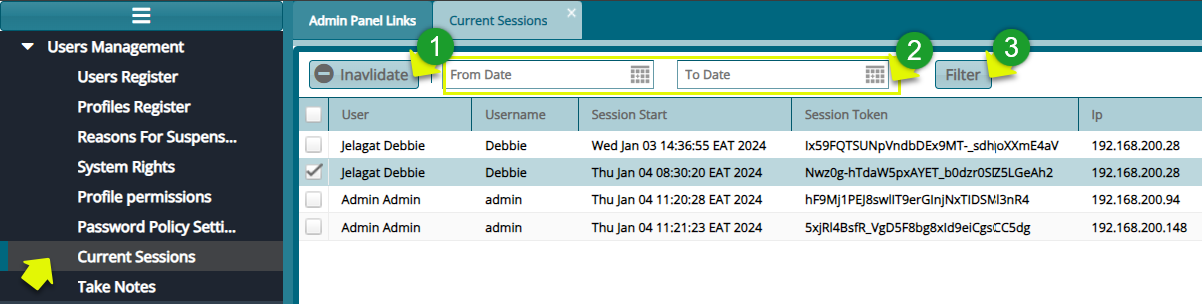
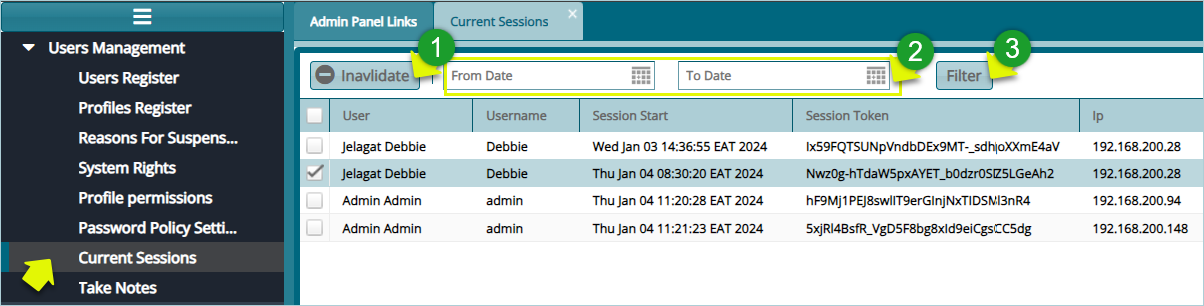
scheme register edits

diff --git a/docs/src/setupscheme/setupProcess.md b/docs/src/setupscheme/setupProcess.md
@@ -2,7 +2,7 @@
 
 Access to all scheme configurations is provided for by clicking the **'Scheme'** menu on the left side pane. This will open a dropdown menu which is organized into submenu categories, providing a convenient order of configurations. See screenshot below:
 
-<img  alt="scheme setup dashboard" width="55%" height="auto"  class="center"  src="../.vuepress/public/schemesetup/image4.png">  
+<img  alt="scheme setup dashboard" width="50%" height="auto"  class="center"  src="../.vuepress/public/schemesetup/image4.jpg">  
 
 
 **Action**
@@ -14,7 +14,7 @@ Access to all scheme configurations is provided for by clicking the **'Scheme'**
 
 The **'Schemes Register'** lists all the schemes created in the system. From the scheme window, several actions can be taken on selected schemes such as cloning of a scheme's configuration, certification, and migration of a scheme among others. From this window a new scheme can also be created. The screenshot below shows how the scheme register looks like:
 
-<img  alt="scheme setup dashboard" width="97%" height="auto"  class="center"  src="../.vuepress/public/schemesetup/image5.png">  
+<img  alt="scheme setup dashboard" width="99%" height="auto"  class="center"  src="../.vuepress/public/schemesetup/image5.jpg">  
 
 
 **Action**
@@ -27,20 +27,28 @@ The **'Schemes Register'** lists all the schemes created in the system. From the
 
 -   Click on the label 4 text field and enter keywords to filter records by name.
 
--   Click on the label 5 menu to open a drop-down to select approved or not approved records.
+-   Click on the label 5 menu to open a drop-down to filter by approved or not approved records status.
 
 -   Click on the label 6 menu to open a drop-down list of registers.
 
--   Click on the label 7 menu to open a drop-down for cloning scheme configurations.
+-   Click on the label 7 button to open a drop-dowm to access links to download scheme related reports. 
 
--   Click on the label 8 button to load a section with more details of a selected scheme from the register.
+-   Click on the label 8 button to show or hide the more detailed section of a selected schemerecord. 
+
+-   Click on the label 9 tab to upload scheme related documents.
+
+-   Click on the label 10 tab to view categories of scheme memberships. 
+
+-   Click on the label 11 tab to view vesting scales deatils.
 
 
-## Operations
 
-The '**Operations**' menu provides links to open windows for various actions related to schemes. These actions include tasks like capturing a scheme's bank details and initiating the scheme migration process. See the screenshot below:
 
-<img  alt="operations menu" width="80%" height="auto"  class="center"  src="../.vuepress/public/schemesetup/image6.png">  
+### Scheme Bank Details
+
+The **Operations** menu provides a link to open a windows for capturing a scheme's bank details. See the screenshot below:
+
+<img  alt="operations menu" width="97%" height="auto"  class="center"  src="../.vuepress/public/schemesetup/image6.jpg">  
 
 
 ### New Scheme
@@ -60,7 +68,7 @@ To create a new scheme, click the **'New Scheme'** button to launch the Scheme D
 The '**Certification**' menu provides access to the buttons through which a newly created scheme is certified and approved before further configurations can be done. See screenshot below:
 
 
-<img  alt="scheme certification" width="97%" height="auto"  class="center"  src="../.vuepress/public/schemesetup/image8.png">  
+<img  alt="scheme certification" width="97%" height="auto"  class="center"  src="../.vuepress/public/schemesetup/image8.jpg">  
 
 
 **Action**
@@ -75,9 +83,9 @@ The **'Open Register'** menu offers links to open windows displaying various bas
 <img  alt="open registers" width="80%" height="auto"  class="center"  src="../.vuepress/public/schemesetup/image9.png">  
 
 
-## Employer Management
+#### Employer Management
 
-### Employer Enrollment
+#### Employer Enrollment
 
 To enroll a new employer into a scheme, locate the **'Open Registers'** drop-down menu, as shown in the previous screenshot, and click the **'Employers'** menu item. This will open the employers window where their details are displayed as shown below:
 
@@ -100,7 +108,7 @@ To enroll a new employer into a scheme, locate the **'Open Registers'** drop-dow
 
 
 
-## Onboarding a Single Employer 
+#### Onboarding a Single Employer 
 
 Click the **'New Employer'** link to open a form where the details of a new employer are captured into the system as shown below:
 
@@ -112,7 +120,7 @@ Clicking the **'Save'** button on the employer details form upon completion of c
 <img  alt="schedule employer meeting" width="85%" height="auto"  class="center"  src="../.vuepress/public/schemesetup/image12.png">  
 
 
-## Onboarding Employers in Batch 
+#### Onboarding Employers in Batch 
 
 Employers can also be onboarded into the system in batch form using a template. To initiate this process, click on the **'Import from Template'** menu item as shown below:
 

diff --git a/docs/src/administration/userManagement.md b/docs/src/administration/userManagement.md
@@ -64,11 +64,11 @@ Clicking the '**New User**' will open '**User Details**' form where the details 
 
 To access adsditional details about a user\'s account, including user role, schemes, sponsors, modules, and member classes allowed for access, click '**Details**' from the Operations menu as shown below:
 
-<img  alt="user details" width="20%" height="auto"  class="center"  src="../.vuepress/public/adminmedia/image8.png">  
+<img  alt="user details" width="85%" height="auto"  class="center"  src="../.vuepress/public/adminmedia/image8.png">  
 
 This action will open a lower section displaying comprehensive information about the selected user, as depicted below:
 
-<img  alt="user extra details" width="97%" height="auto"  class="center"  src="../.vuepress/public/adminmedia/image9.png">  
+<img  alt="user extra details" width="99%" height="auto"  class="center"  src="../.vuepress/public/adminmedia/image9.png">  
 
 
 **Action**
@@ -215,7 +215,7 @@ Once a system user profile is created, the next step is to allow access to speci
 
 To assign permissions to a profile, click the **'Profile Permissions'** menu to open the profiles permission window with a grid table where permissions are assigned to profiles. The table provides drop-down menus to choose profiles and the modules whose permissions are to be assigned to a profile among others as shown below:
 
-<img  alt="Profile Permissions" width="95%" height="auto"  class="center"  src="../.vuepress/public/adminmedia/image20.png">  
+<img  alt="Profile Permissions" width="98%" height="auto"  class="center"  src="../.vuepress/public/adminmedia/image20a.jpg">  
 
 
 **Action**
@@ -232,7 +232,7 @@ To assign permissions to a profile, click the **'Profile Permissions'** menu to 
 
 Select **'Permission'** from the list and click the **'Enable'** button to activate the permissions in that profile as shown below:
 
-<img  alt="enable Permissions" width="95%" height="auto"  class="center"  src="../.vuepress/public/adminmedia/image21.png">  
+<img  alt="enable Permissions" width="98%" height="auto"  class="center"  src="../.vuepress/public/adminmedia/image21.png">  
 
 
 **Action**
@@ -261,7 +261,7 @@ Click the **'New Permission'** button to open a dialog box. Through this, a new 
 
 Click **'Password Policy Settings'** to open a dialog box. Adjust the password policy settings based on the configuration provided below:
 
-<img  alt="Password Policy Settings" width="95%" height="auto"  class="center"  src="../.vuepress/public/adminmedia/image22.png">  
+<img  alt="Password Policy Settings" width="97%" height="auto"  class="center"  src="../.vuepress/public/adminmedia/image22.png">  
 
 
 **Action**
@@ -274,7 +274,7 @@ Click **'Password Policy Settings'** to open a dialog box. Adjust the password p
 
 Click on **'Current Sessions'** to open the respective window. Inside this window, you will find a list displaying all currently logged-in users, as illustrated in the screenshot below:
 
-<img  alt="Current Sessions" width="95%" height="auto"  class="center"  src="../.vuepress/public/adminmedia/image23.png">  
+<img  alt="Current Sessions" width="100%" height="auto"  class="center"  src="../.vuepress/public/adminmedia/image23.png">  
 
 
 **Action**
@@ -291,7 +291,7 @@ Click on **'Current Sessions'** to open the respective window. Inside this windo
 
 Click on **'Take Notes'** to open the Notes window. Inside this window, you will find a list displaying all current notes written by various system users as shown in the screenshot below:
 
-<img  alt="Take Notes" width="95%" height="auto"  class="center"  src="../.vuepress/public/adminmedia/image24.png">  
+<img  alt="Take Notes" width="100%" height="auto"  class="center"  src="../.vuepress/public/adminmedia/image24.png">  
 
 
 **Action**
@@ -318,7 +318,7 @@ Click the **'New'** button to open a dialog box. Within this window, enter the d
 
 Click **'Audit Trail**' to open the corresponding window. In this window, a list of all key activities within the system, attributed to active users, is generated, as shown in the screenshot below:
 
-<img  alt="audio trail" width="95%" height="auto"  class="center"  src="../.vuepress/public/adminmedia/image26.png">  
+<img  alt="audio trail" width="99%" height="auto"  class="center"  src="../.vuepress/public/adminmedia/image26.png">  
 
 
 **Action**
@@ -329,7 +329,7 @@ Click **'Audit Trail**' to open the corresponding window. In this window, a list
 
 -   Click on the **label 3** date fields and choose dates to filter records based on the selected time range.
 
--   Click on **the label 4** text field and enter keywords to filter logs in the list based on specific criteria.
+-   Click on the **label 4** text field and enter keywords to filter logs in the list based on specific criteria.
 
 -   Click on the **label 5** button to filter records according to the set parameters.
 

diff --git a/docs/src/administration/notifications.md b/docs/src/administration/notifications.md
@@ -156,9 +156,28 @@ Click the **'Outbox'** link to open the outbox window where all outgoing email t
 
 ## Periodic Emails
 
-<img  alt="periodic email" width="95%" height="auto"  class="center"  src="../.vuepress/public/adminmedia/image38.png">  
+Configuring **Periodic Emails** involves setting up the system to send automated emails at scheduled intervals. This is commonly used for reminders, newsletters, reports, or updates etc. See screenshot below to see an example of a configuration. 
+
+<img  alt="periodic email" width="95%" height="auto"  class="center"  src="../.vuepress/public/adminmedia/image38.jpg"> 
+
+**Action**
+
+-   Click **label 1** button to load a new dialog box through which a new periodic email is configurable.
+
+-   Click **label 2** button to remove a selected email record from the list.
+-   Click **label 3** button to Certify a newly created periodic email from the list.
+-   Click **label 4** button to Approve a newly created periodic email from the list.
+
+
+Below is a screenshot of the dialog box through which a new periodic table is configured:
+
+<img  alt="periodic email" width="95%" height="auto"  class="center"  src="../.vuepress/public/adminmedia/image38a.jpg"> 
+
+
 
 
 ## S.M.S Outbox
 
-<img  alt="sms outbox" width="95%" height="auto"  class="center"  src="../.vuepress/public/adminmedia/image39.png">  
+The **SMS Outbox** feature allows users to manage and track outgoing SMS messages that have been sent or are queued for delivery. It provides a way to view the status, history, and details of messages sent from the FundMaster, which can be crucial for managing communications, especially in automated notification systems. See screenshot below:
+
+<img  alt="sms outbox" width="98%" height="auto"  class="center"  src="../.vuepress/public/adminmedia/image39.jpg">  

diff --git a/docs/src/administration/systemUtility.md b/docs/src/administration/systemUtility.md
@@ -40,7 +40,7 @@ Click the '**Report Server'** menu item to open a Report Server Config dialog bo
 
 Click the '**Reports Configurations'** menu item to open a reports configurations dialog box to configure settings that enable a scheme to connect to a report server as shown in the screenshot below:
 
-<img  alt="Reports Configurations" width="95%" height="auto"  class="center"  src="../.vuepress/public/adminmedia/image42.png">  
+<img  alt="Reports Configurations" width="99%" height="auto"  class="center"  src="../.vuepress/public/adminmedia/image42.png">  
 
 **Action**
 
